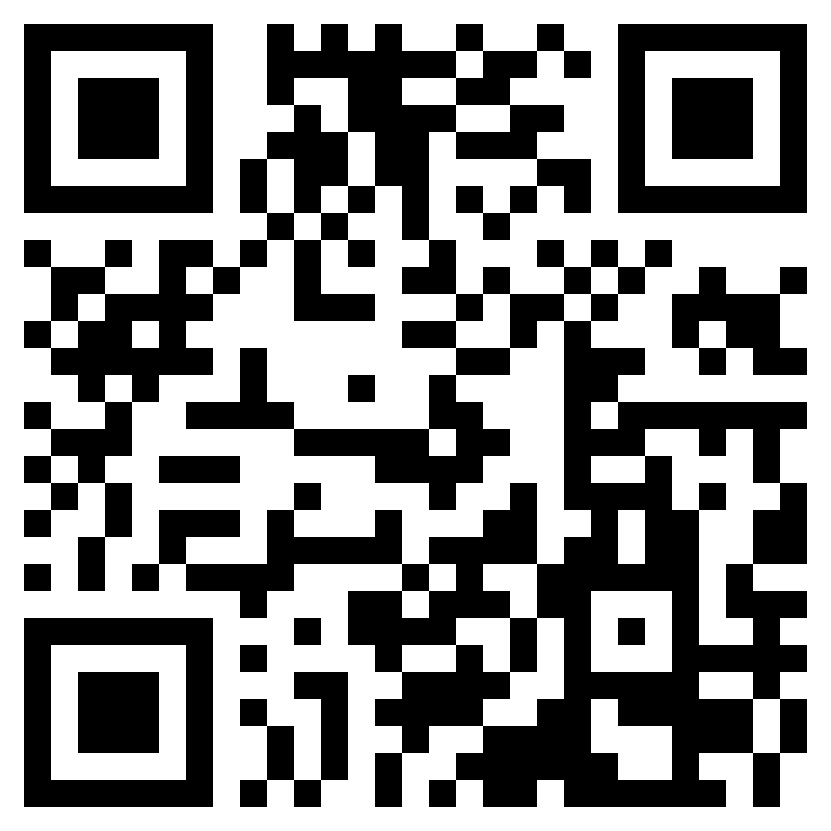
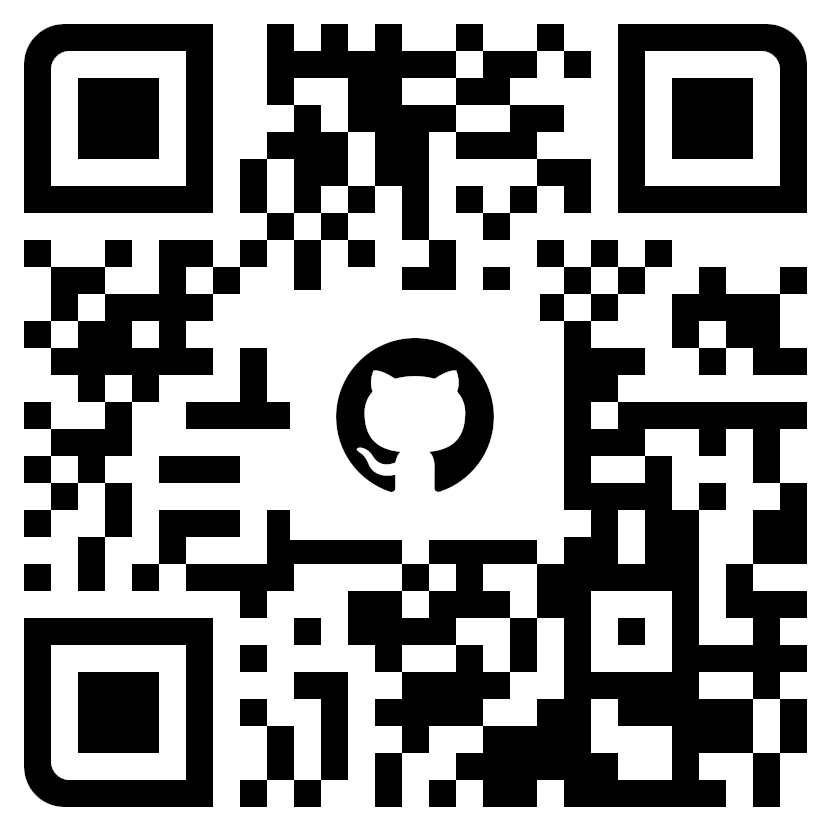
210826
New QR Codes
Added Development Timeline iCal Feed Subscription

diff --git a/README.md b/README.md
@@ -1,1 +1,15 @@
-<img src="https://raw.githubusercontent.com/ChauhanSai/Dev-Timeline/main/Development%20Timeline.png" alt="Development Timeline">
+<img src="https://chauhansai.github.io/Dev-Timeline/Development%20Timeline.png" alt="Development Timeline">
+
+<h3>Links</h3>
+<table>
+	<tr> <!-- Row -->
+		<td>GitHub</td> <!-- Column -->
+		<td>LinkTree</td>
+		<td>Website</td>
+	</tr>
+	<tr>
+		<td align="center"> <a href="https://github.com/ChauhanSai"> <img src="https://chauhansai.github.io/Dev-Timeline/GitHub.png" alt="GitHub" /> </a> </td>
+		<td align="center"> <a href="https://linktr.ee/chauhansai"> <img src="https://chauhansai.github.io/Dev-Timeline/LinkTree.png" alt="LinkTree" /> </a> </td>
+		<td align="center"> <a href="https://chauhansaimc.wixsite.com/chauhan-sai-mc/"> <img src="https://chauhansai.github.io/Dev-Timeline/Website.png" alt="Website" /> </a> </td>
+	</tr>
+</table>
